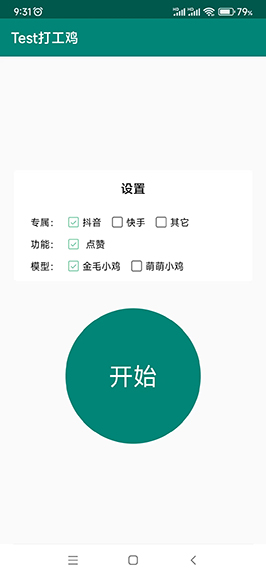
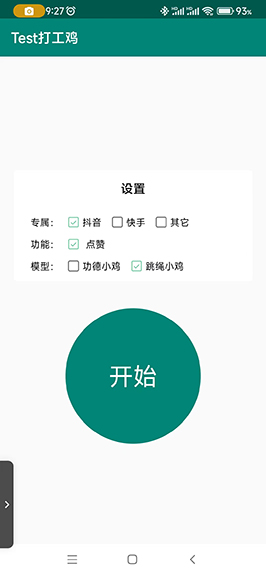
内容变更： 1、调整README.md文件。 2、调整跳绳逻辑。

diff --git a/app/src/main/java/com/wly/beansprout/service/FloatingService.java b/app/src/main/java/com/wly/beansprout/service/FloatingService.java
@@ -123,7 +123,7 @@ public class FloatingService extends Service {
                             onStartAnimation(targetX, targetY);
                         } else {
                             // 没有开启时则生成一个随机数，然后执行随机动画
-                            if (chickModel == 2) {
+                            if (chickModel == 2 && !TouchEventManager.getInstance().isOpenSkippingRope()) {
                                 // 停止 基础动画
                                 if (basicAnim != null && basicAnim.isRunning()) {
                                     basicAnim.stop();
@@ -203,6 +203,7 @@ public class FloatingService extends Service {
                     Log.i("#####FloatingService", "onStopTouch=" + basicAnim.isRunning());
 
                     if (basicAnim != null && !basicAnim.isRunning()) {
+                        TouchEventManager.getInstance().setOpenSkippingRope(false);
                         mFloatingView.setImageDrawable(basicAnim);
                         basicAnim.start();
                     }
@@ -279,6 +280,8 @@ public class FloatingService extends Service {
 
                             handler.postDelayed(this, 500); // 0.5秒后再次执行
                         } else {
+                            // 开始跳绳
+                            TouchEventManager.getInstance().setOpenSkippingRope(true);
                             AnimationDrawable skippingRopeAnim = (AnimationDrawable) ContextCompat.getDrawable(getApplicationContext(), R.drawable.cute_skipping_rope_animation);
                             mFloatingView.setImageDrawable(skippingRopeAnim);
                             skippingRopeAnim.start();
@@ -323,6 +326,7 @@ public class FloatingService extends Service {
                 extendAnim.start();
 
                 new Handler().postDelayed(() -> {
+                    TouchEventManager.getInstance().setOpenSkippingRope(true);
                     AnimationDrawable workAnim = (AnimationDrawable) ContextCompat.getDrawable(getApplicationContext(), R.drawable.work_animation);
                     mFloatingView.setImageDrawable(workAnim);
                     mFloatingView.post(() -> workAnim.start());

diff --git a/app/src/main/java/com/wly/beansprout/TouchEventManager.java b/app/src/main/java/com/wly/beansprout/TouchEventManager.java
@@ -16,6 +16,8 @@ public class TouchEventManager {
     private int touchAction;
     // 专属(包名)
     private String appPackageName = tiktok;
+    // 跳绳动画是否开启
+    private boolean isOpenSkippingRope;
 
     public static TouchEventManager getInstance() {
         if (touchEventManager == null) {
@@ -75,5 +77,13 @@ public class TouchEventManager {
         } else {
             this.appPackageName = "";
         }
+    }
+
+    public boolean isOpenSkippingRope() {
+        return isOpenSkippingRope;
+    }
+
+    public void setOpenSkippingRope(boolean openSkippingRope) {
+        isOpenSkippingRope = openSkippingRope;
     }
 }

diff --git a/README.md b/README.md
@@ -13,6 +13,7 @@
     Android 利用无障碍服务，申请悬浮窗权限，做抖音点赞功能(模拟屏幕点击)。
 
 ## 展示
+    启动前、首页、启动后、待机状态、打工中、设置、功德小鸡、跳绳小鸡；
 
 ![](image/启动前.jpg)
 ![](image/首页.jpg)
@@ -20,3 +21,26 @@
 ![](image/待机状态.jpg)
 ![](image/打工中.jpg)
 ![](image/设置.jpg)
+![](image/功德小鸡.jpg)
+![](image/跳绳小鸡.jpg)
+
+## Donate
+    如果它对你帮助很大，在实际开发中切实的提升了您的工作效率和开发能力，并且你很想支持库的后续开发和维护,
+    请您点击右上角 Star 支持一下谢谢!
+
+## License
+``` 
+ Copyright 2024, 赤槿       
+  
+   Licensed under the Apache License, Version 2.0 (the "License");
+   you may not use this file except in compliance with the License.
+   You may obtain a copy of the License at 
+ 
+       http://www.apache.org/licenses/LICENSE-2.0 
+
+   Unless required by applicable law or agreed to in writing, software
+   distributed under the License is distributed on an "AS IS" BASIS,
+   WITHOUT WARRANTIES OR CONDITIONS OF ANY KIND, either express or implied.
+   See the License for the specific language governing permissions and
+   limitations under the License.
+```
